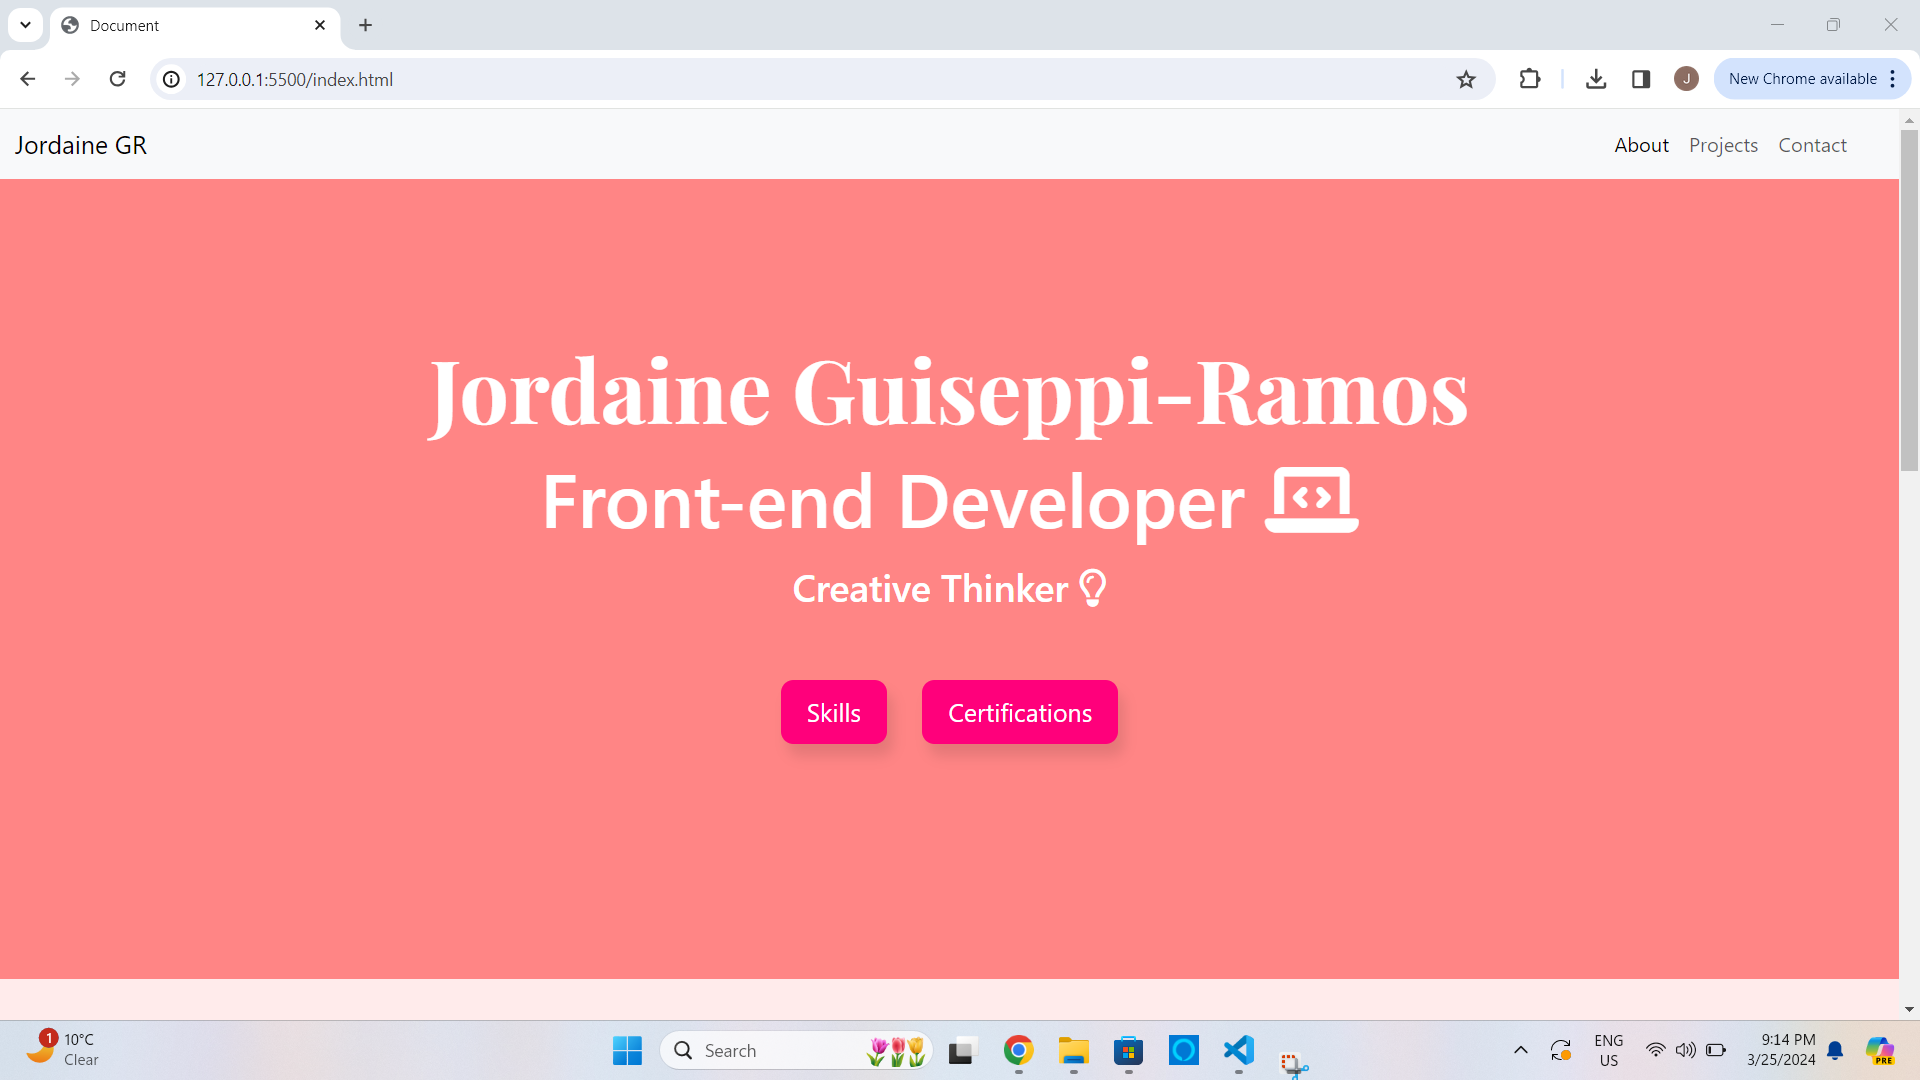
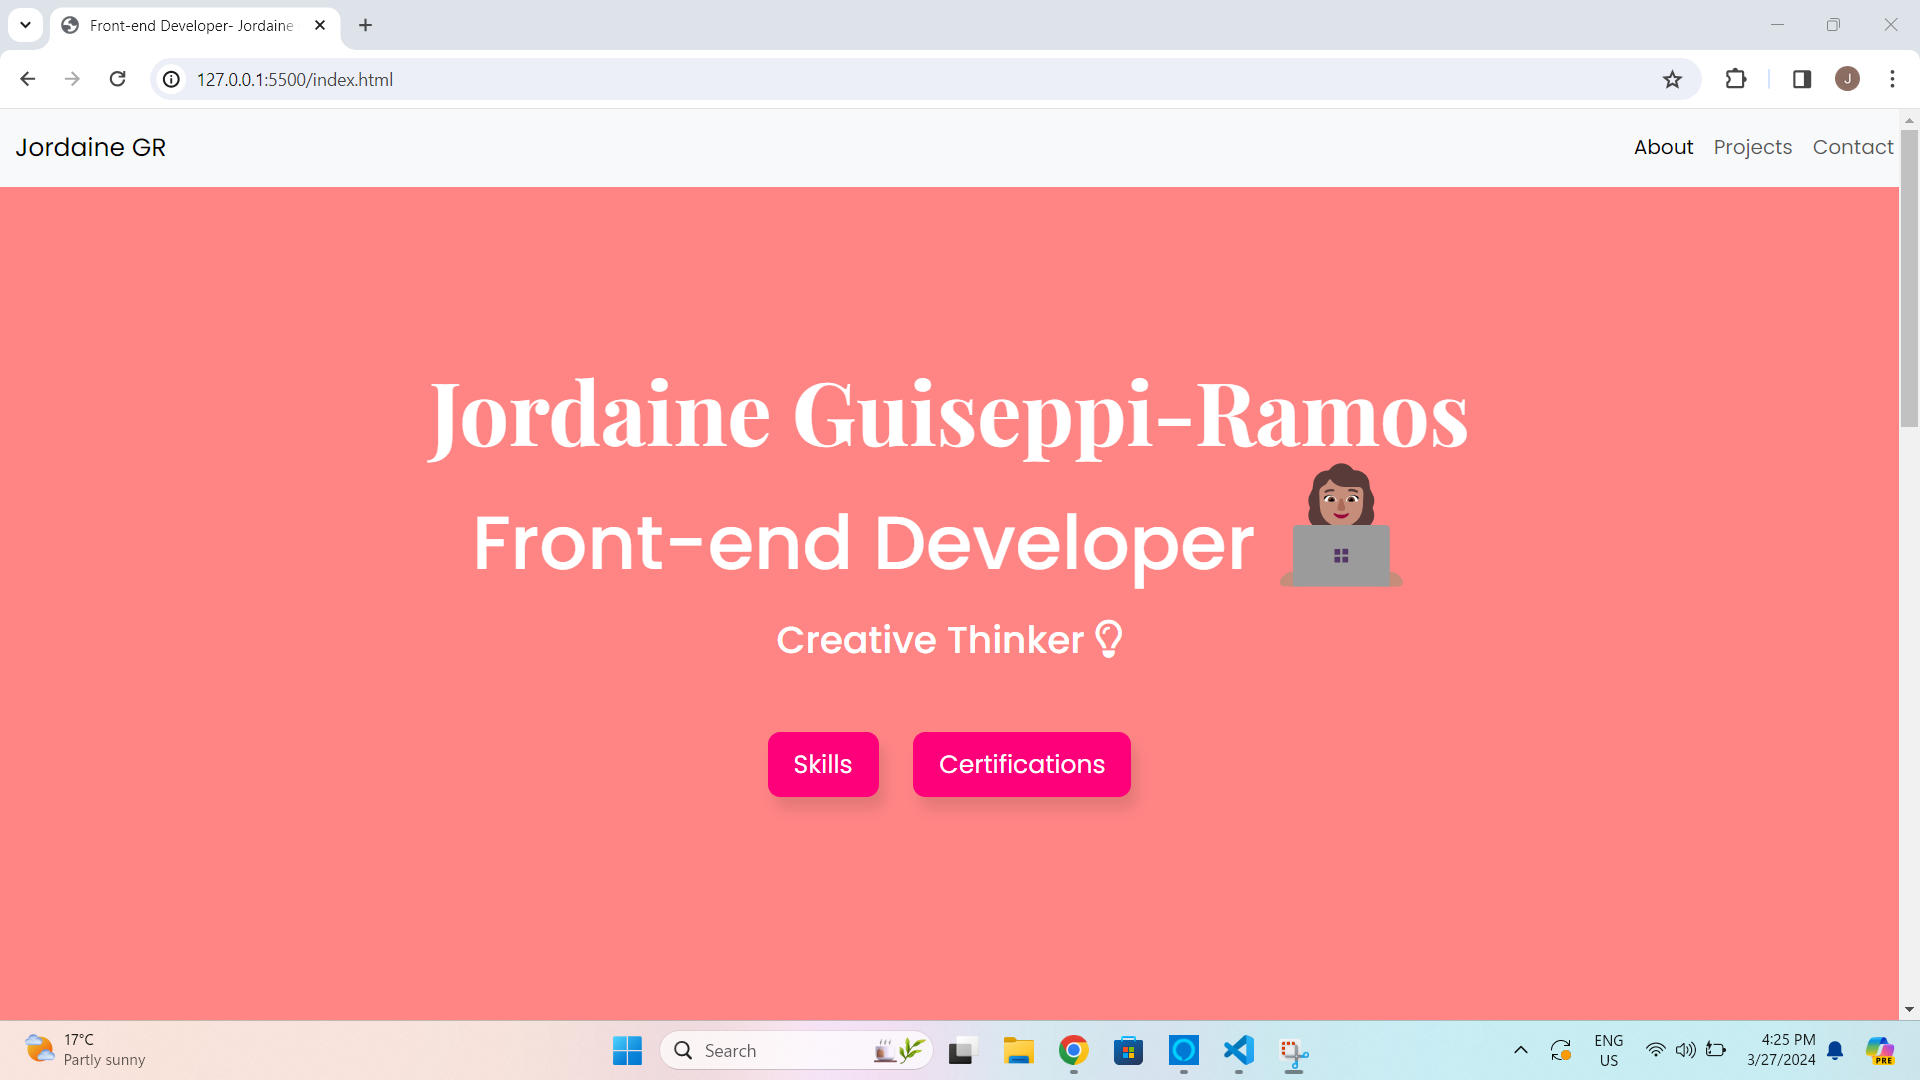
Added SEO

diff --git a/project.html b/project.html
@@ -26,12 +26,18 @@
       src="https://kit.fontawesome.com/4ed8be433e.js"
       crossorigin="anonymous"
     ></script>
-    <title>Document</title>
+    <meta
+      name="description"
+      content="Jordaine's projects. Jordaine is a front-end engineer. "
+    />
+    <title>Jordaine's Projects</title>
   </head>
   <body>
     <nav class="navbar navbar-expand-lg bg-body-tertiary">
       <div class="container-fluid">
-        <a class="navbar-brand" href="/index.html">Jordaine GR</a>
+        <a class="navbar-brand" href="/index.html" title="About Jordaine"
+          >Jordaine GR</a
+        >
         <button
           class="navbar-toggler"
           type="button"
@@ -46,18 +52,23 @@
         <div class="collapse navbar-collapse" id="navbarSupportedContent">
           <ul class="navbar-nav me-auto mb-2 mb-lg-0">
             <li class="nav-item">
-              <a class="nav-link" href="/index.html">About</a>
+              <a class="nav-link" href="/index.html" title="About Jordaine"
+                >About</a
+              >
             </li>
             <li class="nav-item">
               <a
                 class="nav-link active"
                 aria-current="page"
                 href="/project.html"
+                title="Jordaine's Projects"
                 >Projects</a
               >
             </li>
             <li class="nav-item">
-              <a class="nav-link" href="/contact.html">Contact</a>
+              <a class="nav-link" href="/contact.html" title="Contact Jordaine"
+                >Contact</a
+              >
             </li>
           </ul>
         </div>
@@ -75,7 +86,7 @@
         <div class="col d-none d-lg-block">
           <img
             src="images/Blog_Image.png"
-            alt=""
+            alt="Blog Project Preview"
             max-width="100%"
             class="img-fluid rounded"
           />
@@ -100,7 +111,7 @@
         <div class="col d-none d-lg-block">
           <img
             src="images/Weather_Image.png"
-            alt=""
+            alt="Weather Project Preview"
             max-width="100%"
             class="img-fluid rounded"
           />
@@ -129,7 +140,7 @@
         <div class="col d-none d-lg-block">
           <img
             src="images/Portfolio_Image.png"
-            alt=""
+            alt="Portfolio Project Preview"
             max-width="100%"
             class="img-fluid rounded"
           />
@@ -138,9 +149,9 @@
           <h3 class="project-title">Portfolio 📁</h3>
           <p class="mb-4 text-muted">
             This portfolio project is an advanced multipage website project
-            which was built using HTML, CSS and JavaScript in VS Code. Bootstrap
-            was used to make this a responsive website. This project is stored
-            on GitHub and hosted on Netlify.
+            which was built using HTML, CSS and JavaScript in VS Code. SEO was
+            added and bootstrap was used to make this website responsive. This
+            project is stored on GitHub and hosted on Netlify.
           </p>
           <a
             href="https://jordaine-portfolio.netlify.app/"
@@ -153,22 +164,31 @@
     </div>
     <footer>
       <div class="container social-link d-flex justify-content-center">
-        <a href="mailto:jordaine.g.r@gmail.com" class="email-link">
+        <a href="mailto:jordaine.g.r@gmail.com" title="email address">
           <i class="fa-solid fa-envelope"></i
         ></a>
         <a
           href="https://www.linkedin.com/in/jordaineguiseppiramos/"
           target="_blank"
+          title="LinkedIn Profile"
           ><i class="fa-brands fa-linkedin"></i
         ></a>
-        <a href="https://github.com/jordaineGR" target="_blank"
+        <a
+          href="https://github.com/jordaineGR"
+          target="_blank"
+          title="GitHub Profile"
           ><i class="fa-brands fa-github"></i
         ></a>
       </div>
       <div>
         <p class="text-center signature mb-0">
-          This website was built by J'ordaine Guiseppi-Ramos and is open-sourced
-          on GitHub
+          This website was built by Jordaine Guiseppi-Ramos and is
+          <a
+            href="https://github.com/JordaineGR/Portfolio"
+            class="text-reset"
+            target="_blank"
+            >open-sourced</a
+          >.
         </p>
       </div>
     </footer>

diff --git a/index.html b/index.html
@@ -26,12 +26,15 @@
       src="https://kit.fontawesome.com/4ed8be433e.js"
       crossorigin="anonymous"
     ></script>
-    <title>Document</title>
+    <meta name="description" content="Jordaine is a front-end engineer." />
+    <title>Front-end Developer- Jordaine Guiseppi-Ramos</title>
   </head>
   <body>
     <nav class="navbar navbar-expand-lg bg-body-tertiary">
       <div class="container-fluid">
-        <a class="navbar-brand" href="/index.html">Jordaine GR</a>
+        <a class="navbar-brand" href="/index.html" title="About Jordaine"
+          >Jordaine GR</a
+        >
         <button
           class="navbar-toggler"
           type="button"
@@ -46,15 +49,26 @@
         <div class="collapse navbar-collapse" id="navbarSupportedContent">
           <ul class="navbar-nav me-auto mb-2 mb-lg-0">
             <li class="nav-item">
-              <a class="nav-link active" aria-current="page" href="/index.html"
+              <a
+                class="nav-link active"
+                aria-current="page"
+                href="/index.html"
+                title="About Jordaine"
                 >About</a
               >
             </li>
             <li class="nav-item">
-              <a class="nav-link" href="/project.html">Projects</a>
+              <a
+                class="nav-link"
+                href="/project.html"
+                title="Jordaine's Projects"
+                >Projects</a
+              >
             </li>
             <li class="nav-item">
-              <a class="nav-link" href="/contact.html">Contact</a>
+              <a class="nav-link" href="/contact.html" title="Contact Jordaine"
+                >Contact</a
+              >
             </li>
           </ul>
         </div>
@@ -63,7 +77,7 @@
     <div class="intro">
       <h1>Jordaine Guiseppi-Ramos</h1>
       <h2>Front-end Developer<span class="emoji">👩🏽💻</span></h2>
-      <h3 class="mt-4 mb-5">
+      <h3 class="mt-5 mb-5">
         Creative Thinker <i class="fa-regular fa-lightbulb"></i>
       </h3>
       <h3>
@@ -115,21 +129,21 @@
         <div class="col-sm-4">
           <img
             src="images/Certificate in Software Engineering.jpg"
-            alt=""
+            alt="Certificate in Software Engineering"
             class="img-fluid certificate-image"
           />
         </div>
         <div class="col-sm-4">
           <img
             src="images/Introduction to Coding Certificate.png"
-            alt=""
+            alt="Introduction to Coding Certificate"
             class="img-fluid certificate-image"
           />
         </div>
         <div class="col-sm-4">
           <img
             src="images/Web Development Certificate.png"
-            alt=""
+            alt="Web Development Certificate"
             class="img-fluid certificate-image"
           />
         </div>
@@ -137,22 +151,31 @@
     </div>
     <footer>
       <div class="container social-link d-flex justify-content-center">
-        <a href="mailto:jordaine.g.r@gmail.com" class="email-link">
+        <a href="mailto:jordaine.g.r@gmail.com" title="email address">
           <i class="fa-solid fa-envelope"></i
         ></a>
         <a
           href="https://www.linkedin.com/in/jordaineguiseppiramos/"
           target="_blank"
+          title="LinkedIn Profile"
           ><i class="fa-brands fa-linkedin"></i
         ></a>
-        <a href="https://github.com/jordaineGR" target="_blank"
+        <a
+          href="https://github.com/jordaineGR"
+          target="_blank"
+          title="GitHub Profile"
           ><i class="fa-brands fa-github"></i
         ></a>
       </div>
       <div>
         <p class="text-center signature mb-0">
-          This website was built by J'ordaine Guiseppi-Ramos and is open-sourced
-          on GitHub
+          This website was built by Jordaine Guiseppi-Ramos and is
+          <a
+            href="https://github.com/JordaineGR/Portfolio"
+            class="text-reset"
+            target="_blank"
+            >open-sourced</a
+          >.
         </p>
       </div>
     </footer>

diff --git a/contact.html b/contact.html
@@ -25,12 +25,18 @@
       src="https://kit.fontawesome.com/4ed8be433e.js"
       crossorigin="anonymous"
     ></script>
-    <title>Document</title>
+    <meta
+      name="description"
+      content="Conatct Jordaine. Jordaine is a front-end engineer."
+    />
+    <title>Contact Jordaine</title>
   </head>
   <body>
     <nav class="navbar navbar-expand-lg bg-body-tertiary">
       <div class="container-fluid">
-        <a class="navbar-brand" href="/index.html">Jordaine GR</a>
+        <a class="navbar-brand" href="/index.html" title="About Jordaine"
+          >Jordaine GR</a
+        >
         <button
           class="navbar-toggler"
           type="button"
@@ -45,16 +51,24 @@
         <div class="collapse navbar-collapse" id="navbarSupportedContent">
           <ul class="navbar-nav me-auto mb-2 mb-lg-0">
             <li class="nav-item">
-              <a class="nav-link" href="/index.html">About</a>
+              <a class="nav-link" href="/index.html" title="About Jordaine"
+                >About</a
+              >
             </li>
             <li class="nav-item">
-              <a class="nav-link" href="/project.html">Projects</a>
+              <a
+                class="nav-link"
+                href="/project.html"
+                title="Jordaine's Projects"
+                >Projects</a
+              >
             </li>
             <li class="nav-item">
               <a
                 class="nav-link active"
                 aria-current="page"
                 href="/contact.html"
+                title="Contact Jordaine"
                 >Contact</a
               >
             </li>
@@ -106,22 +120,31 @@
     </div>
     <footer>
       <div class="container social-link d-flex justify-content-center">
-        <a href="mailto:jordaine.g.r@gmail.com" class="email-link">
+        <a href="mailto:jordaine.g.r@gmail.com" title="email address">
           <i class="fa-solid fa-envelope"></i
         ></a>
         <a
           href="https://www.linkedin.com/in/jordaineguiseppiramos/"
           target="_blank"
+          title="LinkedIn Profile"
           ><i class="fa-brands fa-linkedin"></i
         ></a>
-        <a href="https://github.com/jordaineGR" target="_blank"
+        <a
+          href="https://github.com/jordaineGR"
+          target="_blank"
+          title="GitHub Profile"
           ><i class="fa-brands fa-github"></i
         ></a>
       </div>
       <div>
         <p class="text-center signature mb-0">
-          This website was built by J'ordaine Guiseppi-Ramos and is open-sourced
-          on GitHub
+          This website was built by Jordaine Guiseppi-Ramos and is
+          <a
+            href="https://github.com/JordaineGR/Portfolio"
+            class="text-reset"
+            target="_blank"
+            >open-sourced</a
+          >.
         </p>
       </div>
     </footer>

diff --git a/styles/portfolio.css b/styles/portfolio.css
@@ -213,4 +213,8 @@ footer .social-link a:hover {
     padding: 40px 100px 40px 150px;
     margin-bottom: 110px;
   }
+  .navbar-collapse {
+    margin-left: 0;
+    padding-right: 0;
+  }
 }
